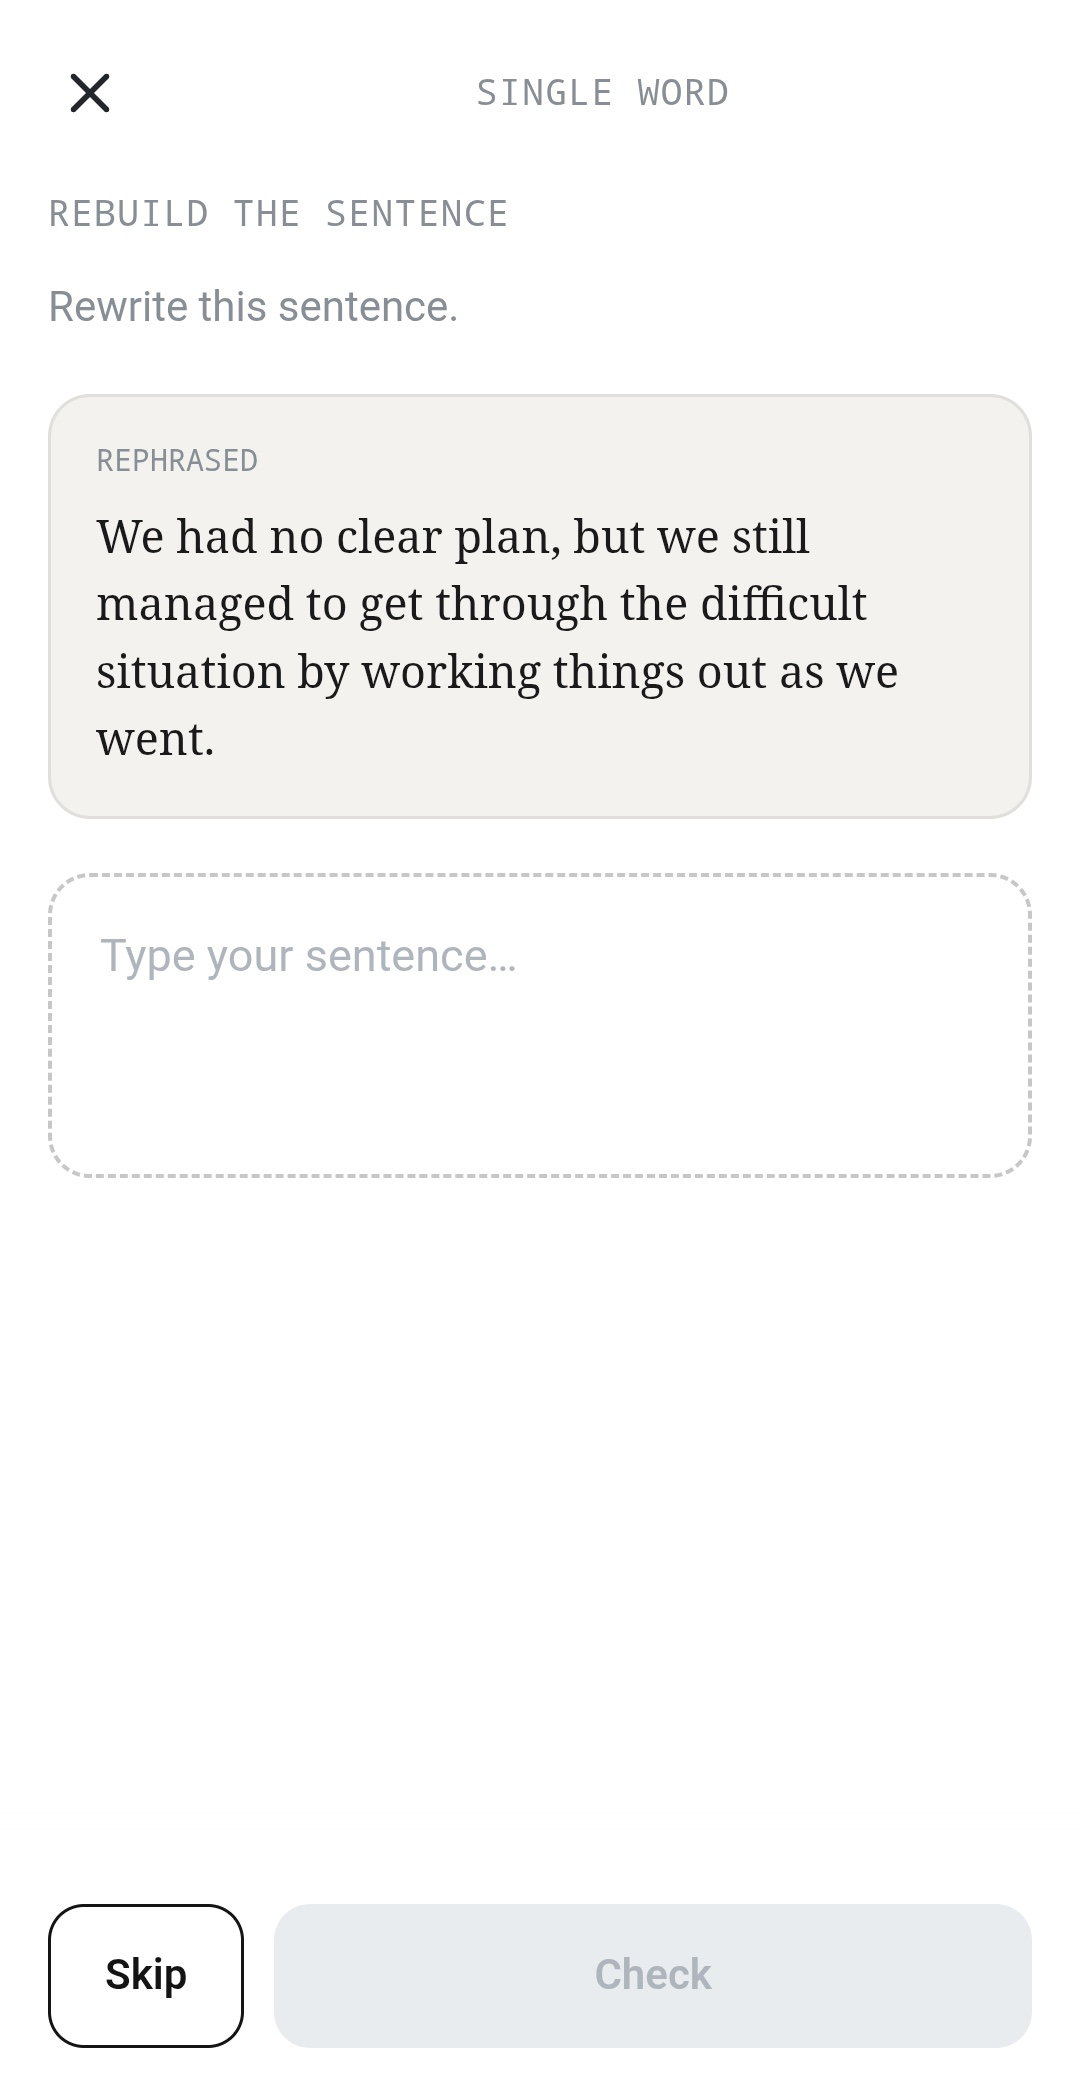
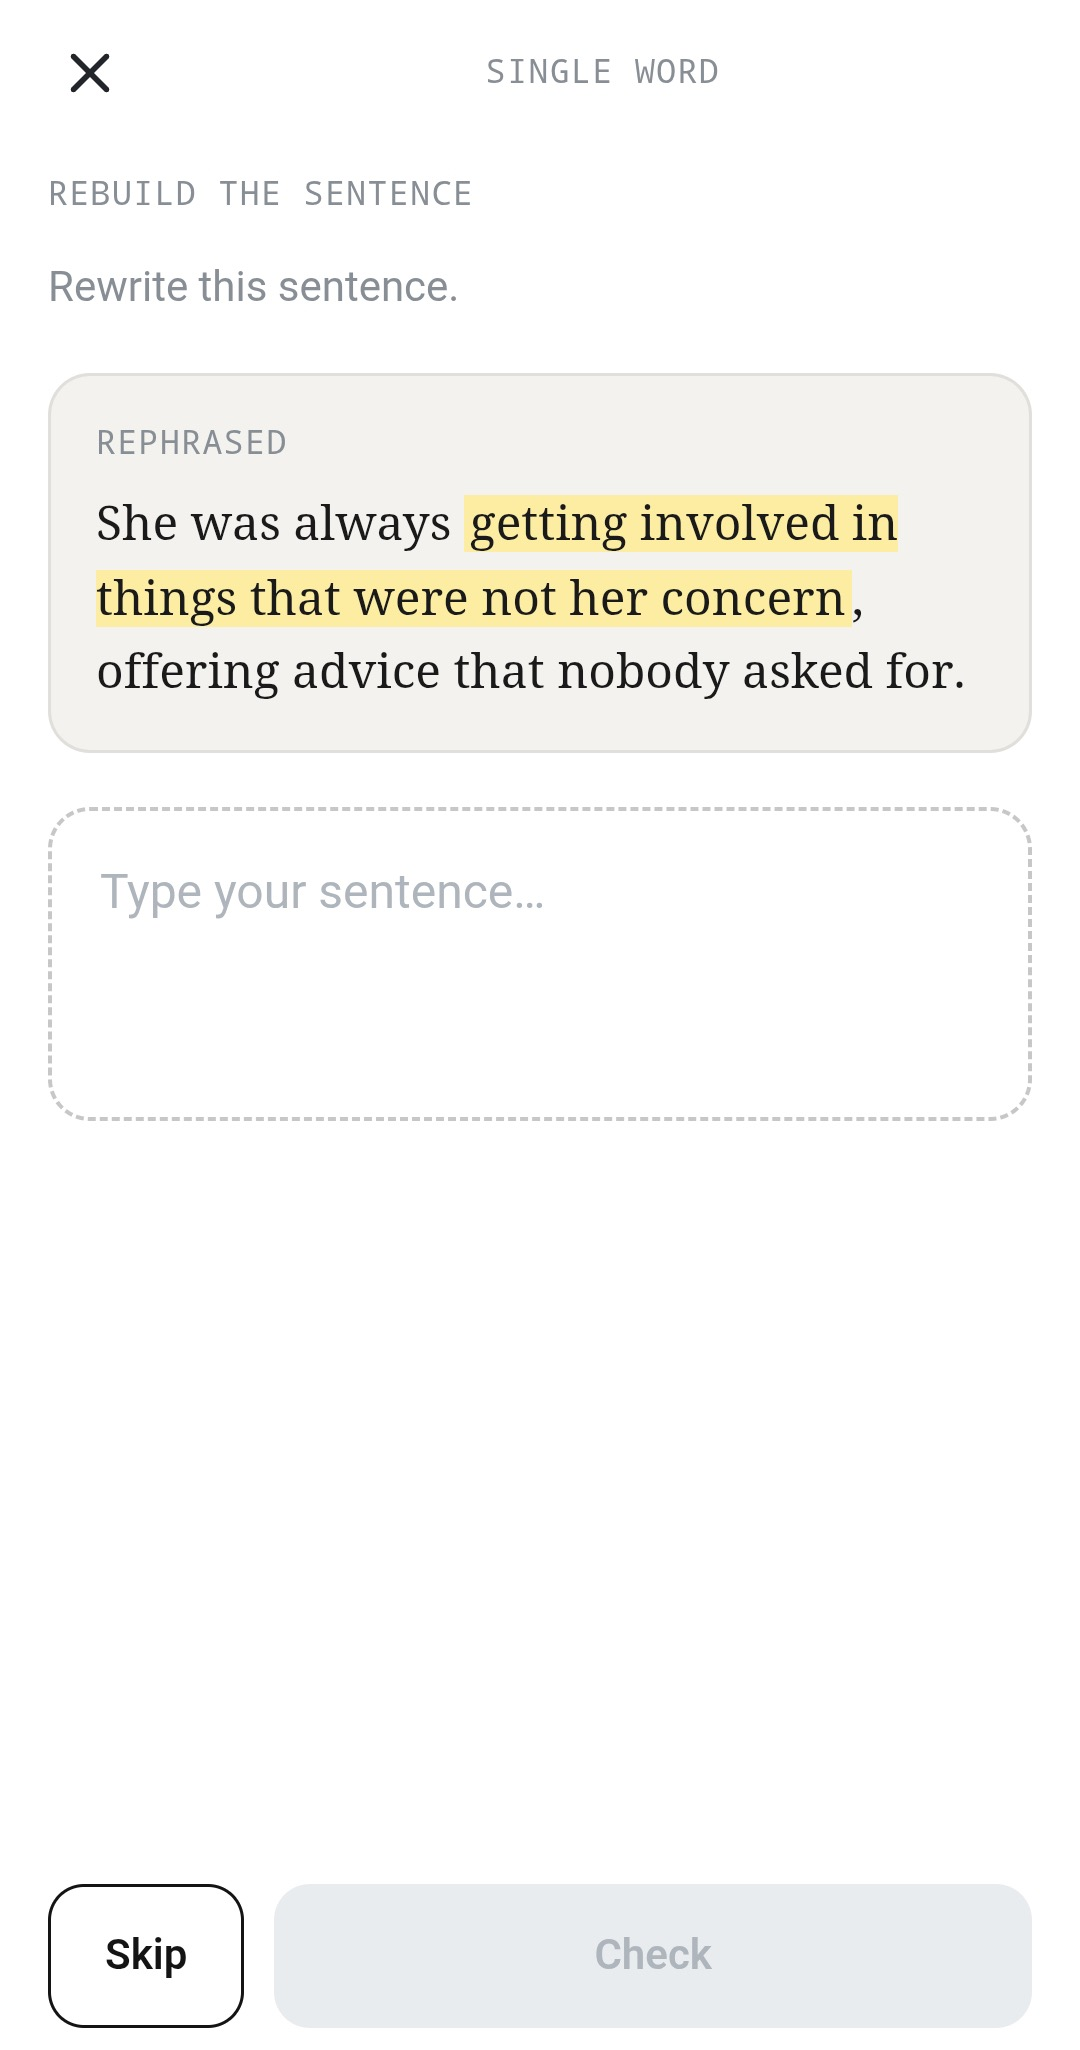
Update readme

diff --git a/README.md b/README.md
@@ -2,20 +2,67 @@
 
 **A quieter way to grow the words you actually use.**
 
-[Live app](https://smartify-web-beige.vercel.app/) · [Landing page](https://smartify-landing.vercel.app/)
+[Live app](https://smartify-web-beige.vercel.app/)
 
-Look up a word, keep it, and practise it in short bursts — guess it from its definition, or
-rebuild a sentence around it. One nudge a day, and the words you've saved stay open whether or
-not you're signed in.
+## Why I built this
 
-It's an installable PWA: a React Router SPA in front of Supabase Edge Functions, with Claude
-doing the dictionary lookups, the example sentences, and the corrections.
+I consume a lot of information in English (reading books, watching video content) and I was
+always fascinated by the diversity of this language. The variety of words and phrases which might
+describe different things and the regional differences between the way the same thing might be
+described were always interesting to me and caught my attention. So I built a small app to level
+up my English by learning and practicing using those words and phrases the way it works for me.
+
+## How it works
+
+The core of the app is practising a new word or phrase by building a sentence with it, with the
+help of Claude. The loop:
+
+```mermaid
+flowchart TD
+    A["Input: a word + the meaning to practise<br/>"] --> B{"Cached sentence<br/>for this meaning?"}
+    B -- yes --> D
+    B -- no --> C["Claude finds a real published quotation<br/>(Haiku, then Sonnet as fallback)<br/>— writes its own only if none exists"]
+    C --> D["Rephrase in plain words,<br/>target word swapped for a highlighted phrase"]
+    D --> E["User rebuilds the sentence<br/>using the target word"]
+    E --> F["Claude grades the word's fit<br/>— sense + naturalness, 0–10"]
+    F -- "below 9.5" --> G["Minimal correction,<br/>changed spans highlighted"]
+    F -- "9.5 or above" --> H["Clean — no correction needed"]
+```
 
 ## Screenshots
 
-|                                                                  Your words                                                                   |                                                                          Look up a word                                                                           |                                                                        Rebuild a sentence                                                                         |
-| :-------------------------------------------------------------------------------------------------------------------------------------------: | :---------------------------------------------------------------------------------------------------------------------------------------------------------------: | :---------------------------------------------------------------------------------------------------------------------------------------------------------------: |
-| <img src="docs/screenshots/home.jpg" alt="The saved word list: 78 words, 14 due today, and a button to start a practice session" width="260"> | <img src="docs/screenshots/lookup.jpg" alt="A lookup for &quot;industrious&quot;: two adjective senses, each with a definition and a quoted example" width="260"> | <img src="docs/screenshots/practice-sentence.jpg" alt="Sentence practice: a rephrased sentence above an empty field to rewrite it in your own words" width="260"> |
+|                                                                  Your words                                                                   |                                                                                 Look up a word                                                                                 |                                                                        Rebuild a sentence                                                                         |
+| :-------------------------------------------------------------------------------------------------------------------------------------------: | :----------------------------------------------------------------------------------------------------------------------------------------------------------------------------: | :---------------------------------------------------------------------------------------------------------------------------------------------------------------: |
+| <img src="docs/screenshots/home.jpg" alt="The saved word list: 96 words, 14 due today, and a button to start a practice session" width="260"> | <img src="docs/screenshots/lookup.jpg" alt="A lookup for &quot;to get along&quot;: a phrasal verb with three senses, each with a definition and a quoted example" width="260"> | <img src="docs/screenshots/practice-sentence.jpg" alt="Sentence practice: a rephrased sentence above an empty field to rewrite it in your own words" width="260"> |
+
+## Decisions & priorities
+
+Some decisions I made along the way:
+
+- **Vocabulary service:** I picked the Claude Haiku model instead of the Oxford API to look
+  up new words. The goal here is to cut the cost of a single lookup. The alternative I checked —
+  [Oxford Dictionaries pricing](https://account.oxforddictionaries.com/pricing) — costs £0.05 per
+  call, while an average lookup using Haiku is around $0.01 at the moment of research. The
+  potential deviation from the gold standard (the Oxford dictionary) is consciously accepted.
+- **Platform:** I went with a PWA because I wanted to leverage push notifications for the
+  reminders to practice, but I didn't want the overkill of developing a separate app and dealing
+  with all the infrastructure (need to use Expo to build the app, etc.). The compromise here is
+  not the smoothest UX and no proper native feeling, and this compromise was taken consciously as
+  the target user (me) wouldn't spend a lot of time in the app.
+- **Visuals:** to not spend too much time on coming up with a fresh design, I gave freedom to
+  Claude Design, which came up with lean frames for core screens which served the purpose, and I
+  iterated on the skeleton Claude built when fine-tuning the features.
+- **The building process:** most of the time I spend goes into defining the goal and
+  reviewing/iterating on the plan Claude Code came up with. After that, lots of time I spend on
+  reviewing and fine-tuning the code changes. The app is still in MVP stage and has only 1 user
+  (me), so I didn't invest time into covering it with tests thoroughly since the app and its behaviour change
+  quite a lot.
+- **Cost control:** every function that calls Claude is gated behind its own
+  mock-mode toggle, so the default path spends no tokens until I flip it on. Generation runs Haiku
+  first and only falls back to Sonnet when Haiku can't produce a sentence. Results are cached to
+  avoid repeat calls: a word you've already looked up is served from your saved vocabulary instead
+  of a fresh lookup, and each meaning keeps up to three sentences, so
+  practising a word again rarely triggers a fresh model call.
 
 ## Features
 
@@ -46,20 +93,18 @@ doing the dictionary lookups, the example sentences, and the corrections.
 | **Backend** | Supabase — Postgres + migrations, Auth, Edge Functions (Deno), Storage, `pg_cron`                                                                             |
 | **AI**      | Anthropic Claude via `@anthropic-ai/sdk` — Haiku 4.5 by default, Sonnet 5 as the generation fallback, JSON-schema structured output                           |
 | **PWA**     | Web app manifest · Workbox-generated service worker · Web Push + VAPID                                                                                        |
-| **Landing** | Plain HTML + CSS on Vite — zero JavaScript shipped                                                                                                            |
-| **Tooling** | npm workspaces · Vercel (each app deployed on its own)                                                                                                        |
+| **Tooling** | npm workspaces · Vercel                                                                                                                                       |
 
 ## Repository layout
 
-An npm-workspaces monorepo with two independent apps:
+An npm-workspaces monorepo. The app lives in `apps/web`; `supabase/`, `scripts/`, `data/` and
+`.env` stay at the root and are shared.
 
-| Path           | What                                          | Dev                           | Build output            |
-| -------------- | --------------------------------------------- | ----------------------------- | ----------------------- |
-| `apps/web`     | the PWA — React Router v7 SPA                 | `npm run dev` (:5173)         | `apps/web/build/client` |
-| `apps/landing` | the marketing page — static HTML + CSS, no JS | `npm run landing:dev` (:5174) | `apps/landing/dist`     |
+| Path       | What                          | Dev                   | Build output            |
+| ---------- | ----------------------------- | --------------------- | ----------------------- |
+| `apps/web` | the PWA — React Router v7 SPA | `npm run dev` (:5173) | `apps/web/build/client` |
 
-`supabase/`, `scripts/`, `data/` and `.env` stay at the root and are shared; every command
-below runs from the repo root.
+Every command below runs from the repo root.
 
 ## Getting started
 
@@ -68,11 +113,4 @@ npm install
 npm run dev        # the app at http://localhost:5173
 npm run typecheck
 npm run build      # → apps/web/build/client (+ the service worker)
-```
-
-The landing page is a separate workspace on its own port — both can be up at the same time:
-
-```bash
-npm run landing:dev     # http://localhost:5174
-npm run landing:build   # → apps/landing/dist
 ```

diff --git a/CLAUDE.md b/CLAUDE.md
@@ -20,11 +20,11 @@ them so decisions rest on facts and real needs rather than vibes or intuition.
 
 Two independent apps under `apps/*`, with shared infra at the root.
 
-| Path | What |
-| --- | --- |
-| `apps/web` | the PWA (React Router v7 SPA, Mantine). Workspace name `smartify`. |
-| `apps/landing` | the public marketing page. Plain HTML + CSS on Vite — **never add a framework or a runtime dependency to it**. The one exception is a ~15-line inline script in `index.html` driving the feature-card demo players; keep any further JS inline, vanilla, and this small. Workspace name `smartify-landing`. |
-| `supabase/` `scripts/` `data/` `.env` | root-level, shared. Their commands run from the root unchanged. |
+| Path                                  | What                                                                                                                                                                                                                                                                                                        |
+| ------------------------------------- | ----------------------------------------------------------------------------------------------------------------------------------------------------------------------------------------------------------------------------------------------------------------------------------------------------------- |
+| `apps/web`                            | the PWA (React Router v7 SPA, Mantine). Workspace name `smartify`.                                                                                                                                                                                                                                          |
+| `apps/landing`                        | the public marketing page. Plain HTML + CSS on Vite — **never add a framework or a runtime dependency to it**. The one exception is a ~15-line inline script in `index.html` driving the feature-card demo players; keep any further JS inline, vanilla, and this small. Workspace name `smartify-landing`. |
+| `supabase/` `scripts/` `data/` `.env` | root-level, shared. Their commands run from the root unchanged.                                                                                                                                                                                                                                             |
 
 The root `package.json` has **no dependencies** — it is workspace wiring plus script
 aliases. Add dependencies to the owning app, never to the root. This holds for dev
@@ -66,12 +66,12 @@ about. Finish instead with the manual steps you want exercised and the expected 
 of each, and say plainly which parts of the change stay unverified until I have done
 them.
 
-| Stage | Command | Fix with |
-| --- | --- | --- |
-| Types | `npm run typecheck` | by hand |
-| Lint | `npm run lint` | `npm run lint:fix`, then by hand |
-| Format | `npm run format:check` | `npm run format` |
-| Edge functions | `npm run deno:check` | `npm run deno:fmt` |
+| Stage          | Command                | Fix with                         |
+| -------------- | ---------------------- | -------------------------------- |
+| Types          | `npm run typecheck`    | by hand                          |
+| Lint           | `npm run lint`         | `npm run lint:fix`, then by hand |
+| Format         | `npm run format:check` | `npm run format`                 |
+| Edge functions | `npm run deno:check`   | `npm run deno:fmt`               |
 
 Ownership is split by runtime, and the split is deliberate:
 
@@ -211,12 +211,12 @@ filter of their own. Two consequences:
 - `is_public` is withheld from the `authenticated` update grant, so only a
   migration or the service role can publish a word. `user_id` **is** in that
   grant, because PostgREST compiles upserts into `on conflict do update set
-  <every column sent>` — the update policy is what pins it to `auth.uid()`.
+<every column sent>` — the update policy is what pins it to `auth.uid()`.
 - **That UPDATE grant is column-scoped** (the explicit list in
   `20260730120000_vocabulary_ownership.sql`). So **any new client-writable column
   on `vocabulary` needs its own `grant update (<col>) on public.vocabulary to
-  authenticated;` in a migration** — otherwise, because Postgres checks column
-  privileges when it *plans* the upsert's `on conflict do update set`, **every**
+authenticated;` in a migration** — otherwise, because Postgres checks column
+  privileges when it _plans_ the upsert's `on conflict do update set`, **every**
   save fails with `42501 permission denied` (not just conflicting ones). INSERT is
   table-wide, so only UPDATE needs the per-column grant. Withhold the grant only
   when the column is meant to be immutable to clients, as `is_public` is.
@@ -310,6 +310,32 @@ flag, since each guards a different cost.
 (matched case-insensitively): `real` runs the default Haiku→Sonnet fallback,
 `sonnet` pins generation to Sonnet only, and `haiku` pins it to Haiku only.
 Any other value (or unset) is still mock.
+
+## README screenshots
+
+The three images in the README live in `docs/screenshots/*.jpg`. They are cropped
+from full-resolution phone captures by `scripts/crop-screenshots.sh` — macOS
+`sips` only, no dependencies. The script strips the top system status bar and the
+bottom Android navigation bar while keeping the app's own UI, calibrated for
+`1080x2340` captures with a 3-button nav bar (`TOP_CROP=120`, `BOTTOM_CROP=170`,
+giving `1080x2050`); anything not matching `1080x2340` is skipped rather than
+mis-cropped.
+
+Raw captures go in `docs/screenshots/raw/` — **git-ignored on purpose**
+(`docs/screenshots/raw/*.jpg`), an internal staging area; only the cropped outputs
+are committed, and a `.gitkeep` keeps the otherwise-empty folder tracked. The
+script always reads from `raw/` and writes to `docs/screenshots/`, so re-running
+never double-crops.
+
+To regenerate (the capture step is the user's — I can't drive the phone):
+
+1. The user takes fresh full-resolution screenshots on the device and drops them
+   into `docs/screenshots/raw/`, reusing the filenames the README references
+   (`home.jpg`, `lookup.jpg`, `practice-sentence.jpg`).
+2. Run `./scripts/crop-screenshots.sh` to write the cropped versions.
+3. If the visible content changed (word counts, the looked-up word, its senses),
+   update the matching `alt` text in the README table so it still describes the
+   image.
 
 ## Design references
 
